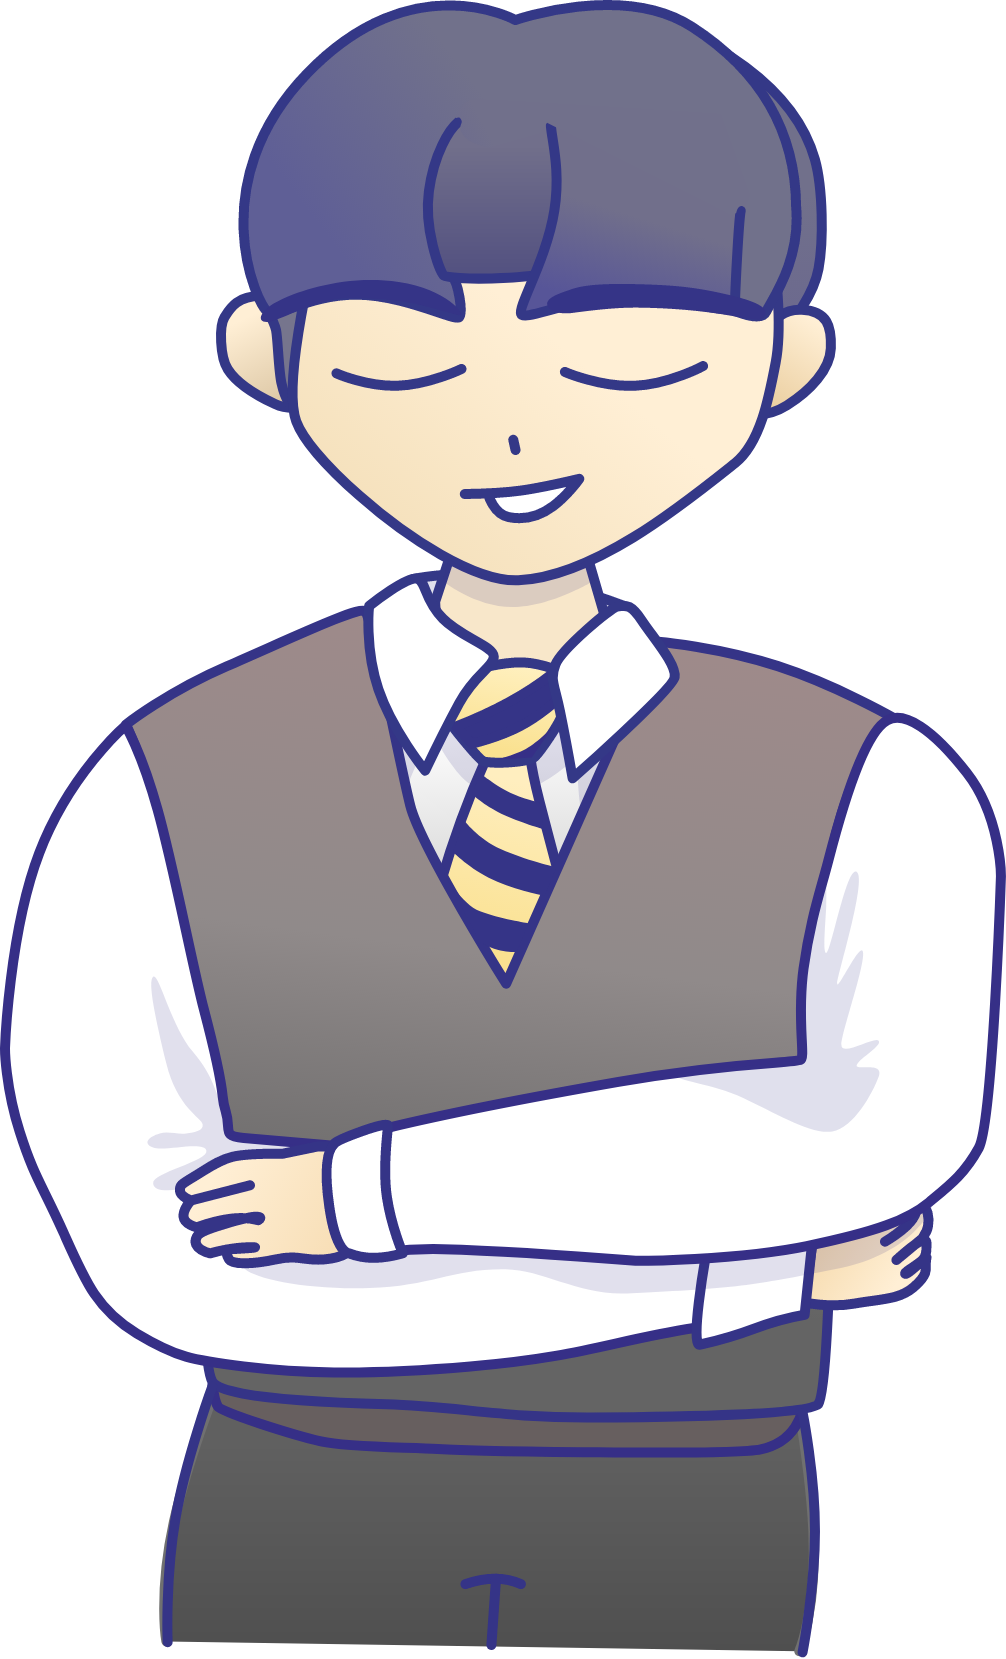
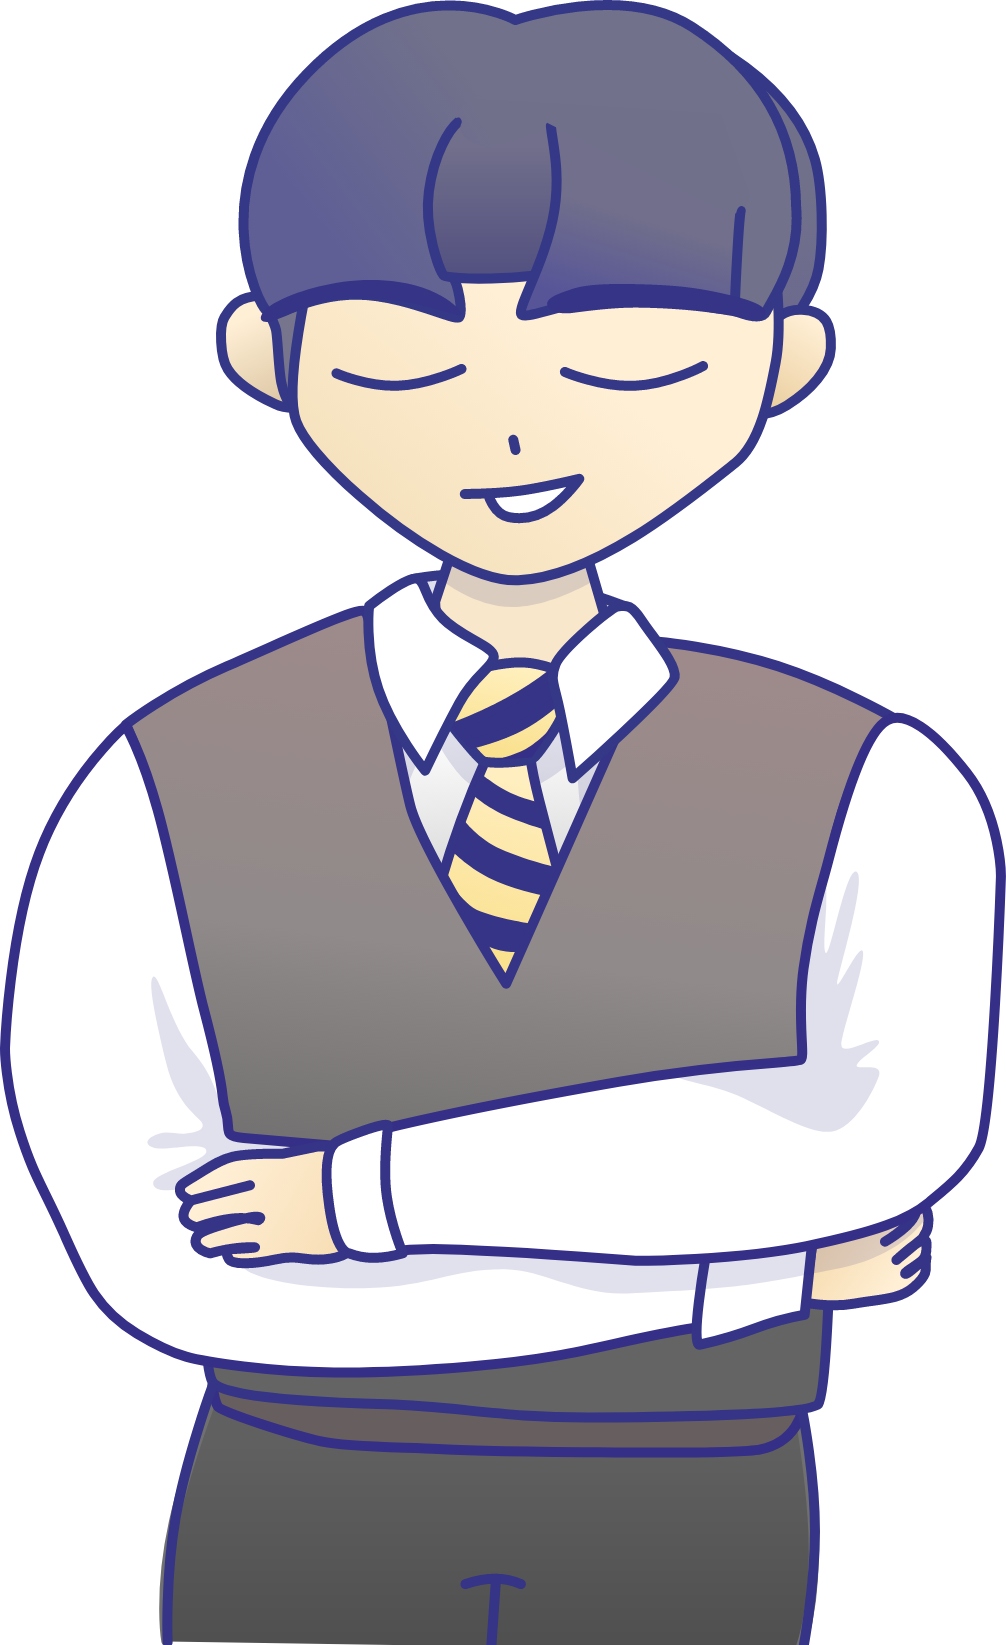
feat(animation): breathing illusts

diff --git a/packages/recurit/src/pages/jobs/Developer.tsx b/packages/recurit/src/pages/jobs/Developer.tsx
@@ -17,6 +17,7 @@ const CulturePost = raw('../../data/developer/culture.md');
 const HeaderWrap = styled.div`
   height: 60vh;
   position: relative;
+  box-shadow: 0px 7px 36px -8px rgba(227, 227, 227, 1);
 `;
 
 const IllustWrap = styled.div`
@@ -34,11 +35,42 @@ const IllustContainer = styled.div`
   height: 100%;
 `;
 
+const IllustOverlay = styled.div`
+  position: absolute;
+  top: 0;
+  left: 0;
+  right: 0;
+  bottom: 0;
+  width: 100%;
+  height: 100%;
+  background-image: linear-gradient(
+    to bottom,
+    transparent 70%,
+    rgba(256,256,256,0.5),
+    #fff
+  );
+  z-index: 1;
+`;
+
 const DeveloperIllust = styled.img`
   height: 436px;
   position: absolute;
-  bottom: 0;
+  bottom: 6px;
   right: 156px;
+  filter: drop-shadow(0px 0px 5px rgba(0, 0, 0, 0.2));
+  animation: breathe 3s ease infinite;
+
+  @keyframes breathe {
+    50% {
+      transform: scale(1.025);
+    }
+    70% {
+      transform: scale(1.02);
+    }
+    100% {
+      transform: scale(1);
+    }
+  }
 `;
 
 const LightbulbIllust = styled.img`
@@ -47,6 +79,19 @@ const LightbulbIllust = styled.img`
   right: 58px;
   top: 36px;
   transform: rotate(28deg);
+  animation: lightbulb 3s ease infinite;
+
+  @keyframes lightbulb {
+    30% {
+      transform: rotate(32deg);
+    }
+    60% {
+      transform: rotate(30deg);
+    }
+    100% {
+      transform: rotate(28deg);
+    }
+  }
 `;
 
 const StyledHeader = styled(Header)`
@@ -79,7 +124,7 @@ const HeaderTitle: React.FC = () => {
 };
 
 const Content = styled.div`
-  padding: 0 2rem;
+  padding: 1.8rem 2rem;
   width: 85%;
 `;
 
@@ -90,6 +135,7 @@ export default class DeveloperJob extends React.Component {
         <HeaderWrap>
           <IllustWrap>
             <IllustContainer>
+              <IllustOverlay />
               <DeveloperIllust src={developerIllust} />
               <LightbulbIllust src={lightbulbIllust} />
             </IllustContainer>
